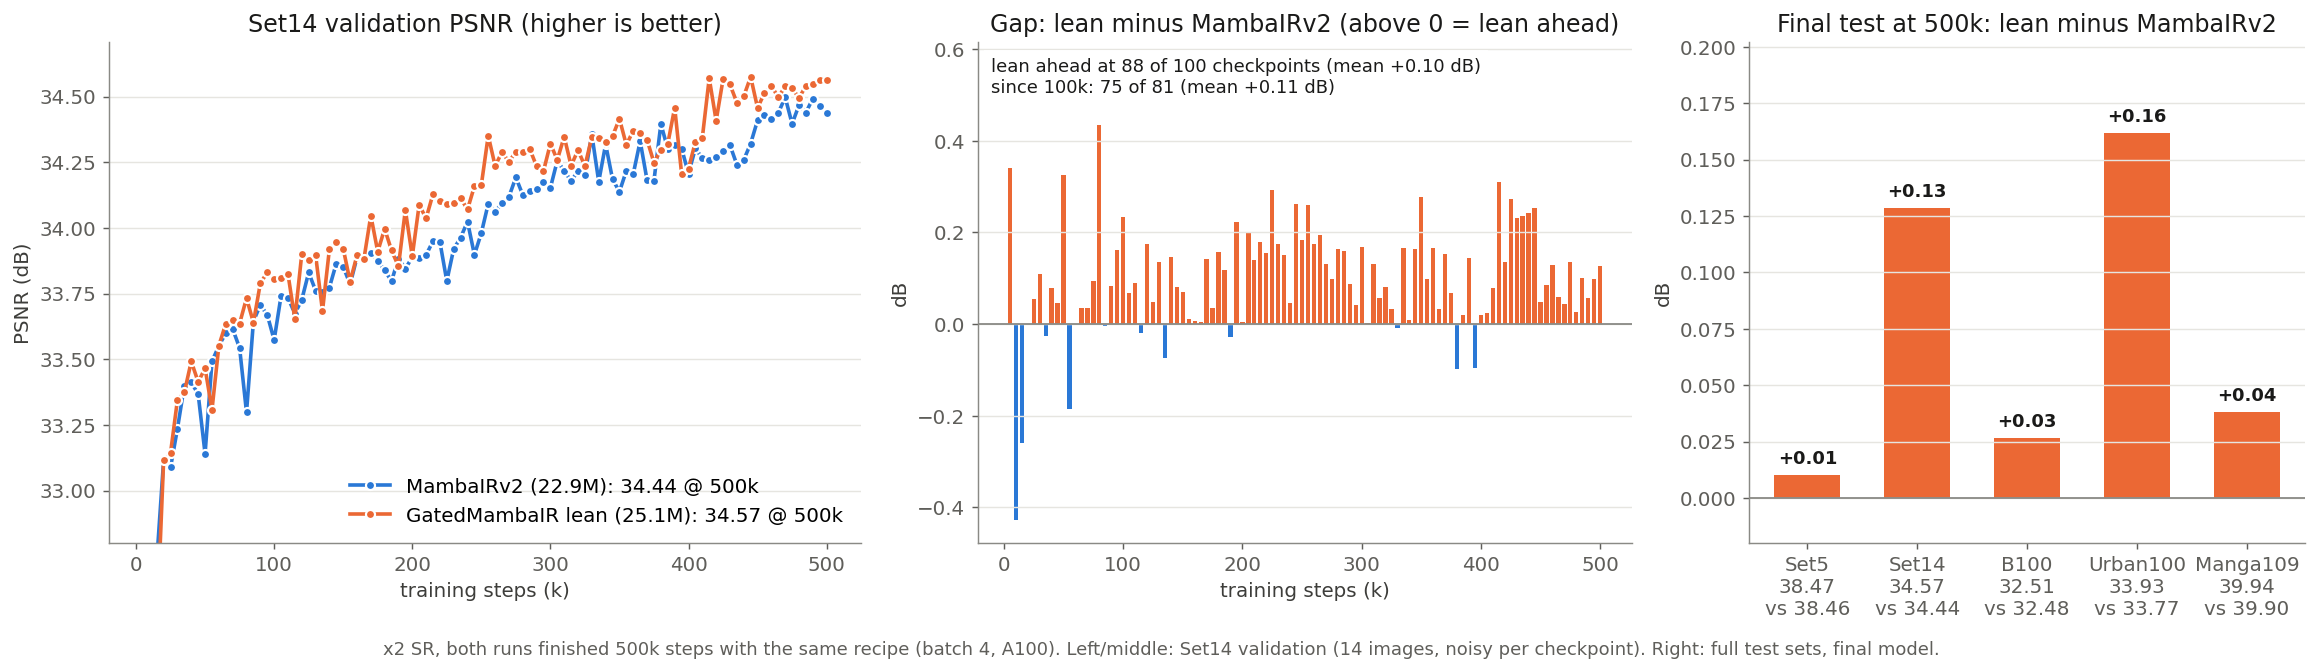
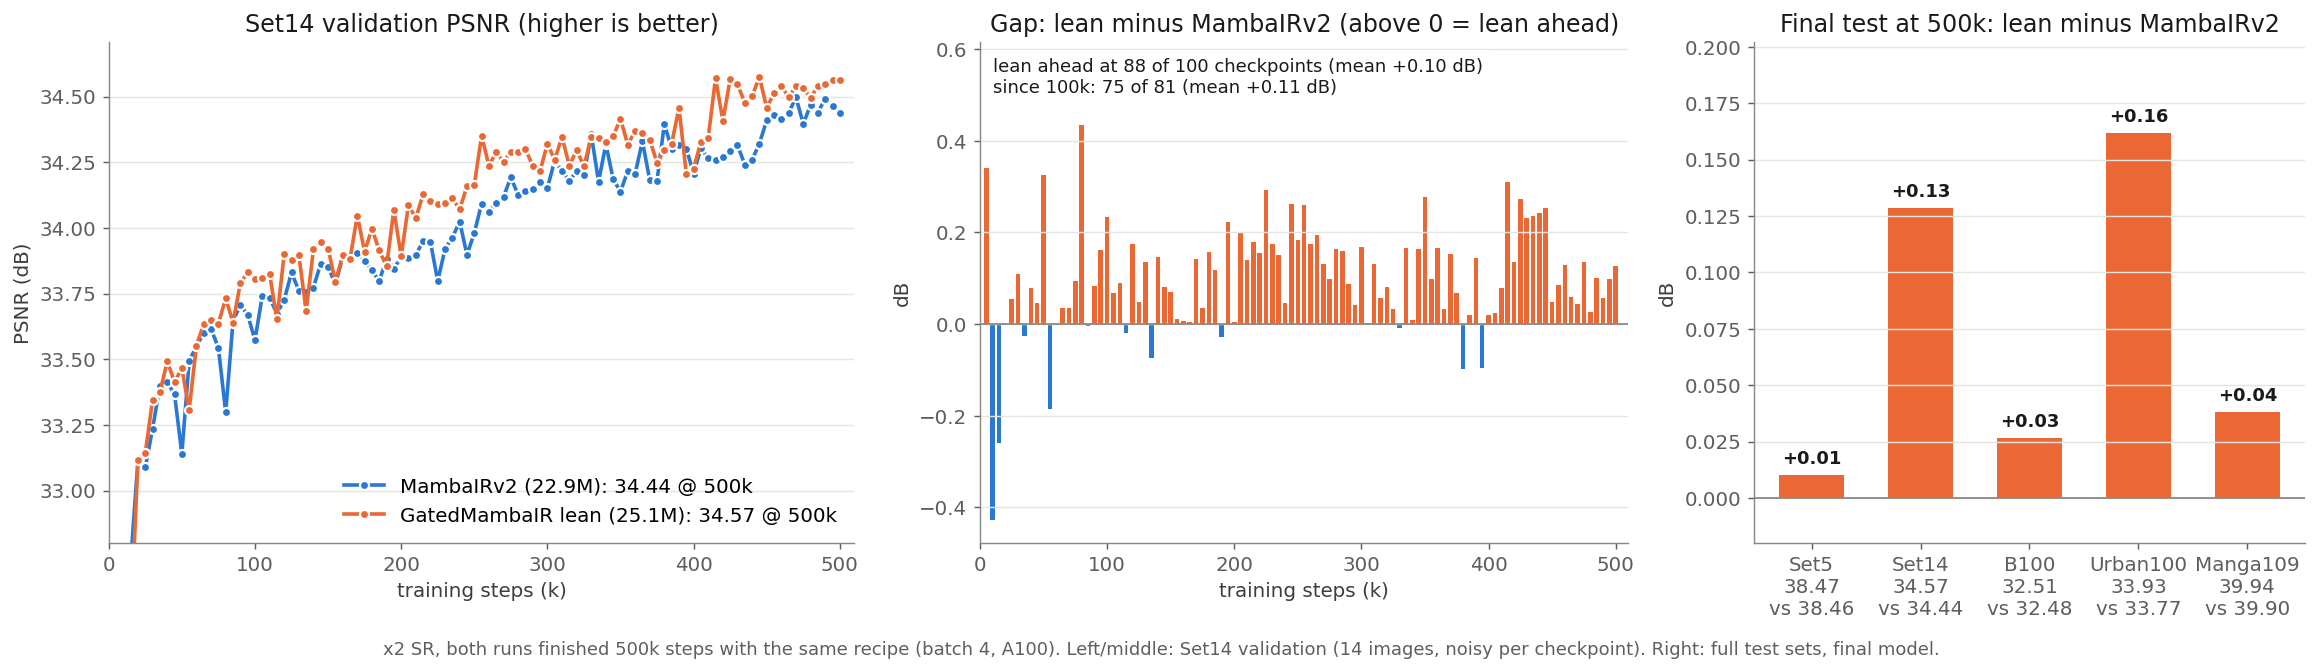
Add x3/x4 training-curve figures; generalize plot script to --scale 2|3|4

diff --git a/tests/plot_curves.py b/tests/plot_curves.py
@@ -1,0 +1,115 @@
+"""Plot Set14 validation PSNR of MambaIRv2 vs lean GatedMambaIR, their gap, and the final test gain on all 5 sets
+-> docs/500k_curves.png (x2), docs/x3_curves.png, docs/x4_curves.png
+
+    GMambaIR_env/bin/python tests/plot_curves.py --scale 2   # or 3, 4
+
+x3/x4 are 250k fine-tunes from the x2 500k weights. If a run has no test rows in docs/results.csv yet,
+the right panel says so; rerun once the tests finish.
+"""
+import argparse
+import csv
+
+import matplotlib
+import numpy as np
+
+matplotlib.use('Agg')
+import matplotlib.pyplot as plt  # noqa: E402
+from tensorboard.backend.event_processing.event_accumulator import EventAccumulator  # noqa: E402
+
+# scale -> (runs, total steps, output, footnote)
+CONFIGS = {
+    2: ([('MambaIRv2 (22.9M)', 'MambaIRv2_SR_x2_500k', '#2a78d6'),
+         ('GatedMambaIR lean (25.1M)', 'GatedMambaIR_SR_x2_lean_chgate_500k', '#eb6834')],
+        500000, 'docs/500k_curves.png',
+        'x2 SR, both runs finished 500k steps with the same recipe (batch 4, A100).'),
+    3: ([('MambaIRv2', 'MambaIRv2_SR_x3_ft250k', '#2a78d6'),
+         ('GatedMambaIR lean', 'GatedMambaIR_SR_x3_lean_chgate_ft250k', '#eb6834')],
+        250000, 'docs/x3_curves.png',
+        'x3 SR, both runs fine-tuned 250k steps from their x2 500k weights (paper schedule, lr 1e-4).'),
+    4: ([('MambaIRv2', 'MambaIRv2_SR_x4_ft250k', '#2a78d6'),
+         ('GatedMambaIR lean', 'GatedMambaIR_SR_x4_lean_chgate_ft250k', '#eb6834')],
+        250000, 'docs/x4_curves.png',
+        'x4 SR, both runs fine-tuned 250k steps from their x2 500k weights (paper schedule, lr 1e-4).'),
+}
+INK, MUTED, GRID = '#1a1a19', '#5f5e5a', '#e6e5e0'
+SETS = ['Set5', 'Set14', 'B100', 'Urban100', 'Manga109']
+
+parser = argparse.ArgumentParser()
+parser.add_argument('--scale', type=int, default=2, choices=sorted(CONFIGS))
+args = parser.parse_args()
+RUNS, TOTAL, OUT, NOTE = CONFIGS[args.scale]
+LATE = TOTAL // 5  # "since 100k" for x2, "since 50k" for the fine-tunes
+
+
+def psnr_curve(run):
+    ea = EventAccumulator(f'tb_logger/{run}', size_guidance={'scalars': 0})
+    ea.Reload()
+    # drop the extra end-of-training validation (step TOTAL+2), it repeats the last one
+    return {e.step: e.value for e in ea.Scalars('metrics/Set14/psnr') if e.step <= TOTAL}
+
+
+def final_psnr(run):
+    with open('docs/results.csv') as f:
+        return {r['dataset']: float(r['psnr']) for r in csv.DictReader(f) if r['name'] == f'test_{run}'}
+
+
+curves = {label: psnr_curve(run) for label, run, _ in RUNS}
+plt.rcParams.update({'font.size': 11, 'axes.spines.top': False, 'axes.spines.right': False,
+                     'axes.edgecolor': '#8a8a85', 'axes.labelcolor': '#3d3d3a',
+                     'xtick.color': MUTED, 'ytick.color': MUTED})
+fig, (ax, gx, tx) = plt.subplots(1, 3, figsize=(18, 5), facecolor='white',
+                                 gridspec_kw={'width_ratios': [1.15, 1, 0.85]})
+
+for label, _, color in RUNS:
+    steps = sorted(curves[label])
+    x, y = np.array(steps) / 1000, [curves[label][s] for s in steps]
+    ax.plot(x, y, color=color, lw=2, marker='o', ms=5, mec='white', mew=1.2,
+            label=f'{label}: {y[-1]:.2f} @ {x[-1]:.0f}k')
+# start the y axis just under the earliest checkpoints so the x2 warm-up does not squash the rest
+ylo = min(np.percentile(list(c.values()), 3) for c in curves.values()) - 0.05
+ax.set(title='Set14 validation PSNR (higher is better)', xlabel='training steps (k)', ylabel='PSNR (dB)',
+       ylim=(32.8 if args.scale == 2 else ylo, None), xlim=(0, TOTAL / 1000 * 1.02))
+ax.legend(frameon=False, loc='lower right')
+
+base, lean = curves[RUNS[0][0]], curves[RUNS[1][0]]
+common = sorted(set(base) & set(lean))
+gap = np.array([lean[s] - base[s] for s in common])
+gx.axhline(0, color='#8a8a85', lw=1)
+gx.bar(np.array(common) / 1000, gap, width=3.6, color=['#eb6834' if g >= 0 else '#2a78d6' for g in gap])
+gx.set(title='Gap: lean minus MambaIRv2 (above 0 = lean ahead)', xlabel='training steps (k)', ylabel='dB',
+       xlim=(0, TOTAL / 1000 * 1.02))
+ahead = int((gap > 0).sum())
+late = np.array(common) >= LATE
+gx.set_ylim(min(gap.min(), -0.1) - 0.05, gap.max() + 0.18)
+gx.text(0.02, 0.97, f'lean ahead at {ahead} of {len(gap)} checkpoints (mean {gap.mean():+.2f} dB)\n'
+        f'since {LATE // 1000}k: {int((gap[late] > 0).sum())} of {int(late.sum())} (mean {gap[late].mean():+.2f} dB)',
+        transform=gx.transAxes, va='top', color=INK, fontsize=10,
+        bbox=dict(facecolor='white', edgecolor='none', alpha=0.9))
+base_t, lean_t = (final_psnr(run) for _, run, _ in RUNS)
+if all(d in base_t and d in lean_t for d in SETS):
+    tgap = np.array([lean_t[d] - base_t[d] for d in SETS])
+    tx.axhline(0, color='#8a8a85', lw=1)
+    tx.bar([f'{d}\n{lean_t[d]:.2f}\nvs {base_t[d]:.2f}' for d in SETS], tgap, width=0.6,
+           color=['#eb6834' if g >= 0 else '#2a78d6' for g in tgap])
+    for i, d in enumerate(SETS):
+        tx.annotate(f'{tgap[i]:+.2f}', (i, tgap[i]), xytext=(0, 4 if tgap[i] >= 0 else -4),
+                    textcoords='offset points', ha='center', va='bottom' if tgap[i] >= 0 else 'top',
+                    color=INK, fontsize=10, weight='bold')
+    tx.set_ylim(min(tgap.min(), 0) - 0.02, tgap.max() + 0.04)
+    tests_done = True
+else:
+    tx.set_xticks(range(len(SETS)), SETS)
+    tx.set_yticks([])
+    tx.text(0.5, 0.5, 'final test pending\n(no lean rows in results.csv yet)', transform=tx.transAxes,
+            ha='center', va='center', color=MUTED, fontsize=12)
+    tests_done = False
+tx.set(title=f'Final test at {TOTAL // 1000}k: lean minus MambaIRv2', ylabel='dB')
+for a in (ax, gx, tx):
+    a.grid(axis='y', color=GRID, lw=0.8)
+    a.title.set_color(INK)
+fig.text(0.5, -0.02, f'{NOTE} Left/middle: Set14 validation (14 images, noisy per checkpoint). '
+         'Right: full test sets, final model.', ha='center', color=MUTED, fontsize=10)
+fig.tight_layout()
+fig.savefig(OUT, dpi=130, bbox_inches='tight')
+print(OUT, {label: (max(c.values()), max(c, key=c.get), len(c)) for label, c in curves.items()},
+      'gap points', len(gap), 'tests done', tests_done)

diff --git a/docs/STATUS.md b/docs/STATUS.md
@@ -264,6 +264,10 @@ Lean is ahead at 8 of 11 checkpoints (average +0.09 dB). Set14 is noisy, so the 
 - **×3 (1437521):** 231k / 250k, done ~Oct 27 07:00. Ahead of MambaIRv2 ×3 at **42 of 46** same-step validation checkpoints (mean **+0.04 dB**); best 30.79 vs 30.75.
 - **×4 (1437522):** 234k / 250k, done ~Oct 27 05:30. Ahead at **44 of 46** (mean **+0.05 dB**); best 29.00 vs 28.96.
 - The 7-day limit is Oct 28 23:39, so they will not be cut off. Tests 1437525 / 1437526 start automatically.
+- Curves (validation up to 235k; right panel fills in after the tests, rerun `tests/plot_curves.py --scale 3` / `--scale 4`): [x3_curves.png](x3_curves.png), [x4_curves.png](x4_curves.png).
+
+![x3 curves](x3_curves.png)
+![x4 curves](x4_curves.png)
 
 ## Running / queued now (2026-10-26)
 

diff --git a/docs/GatedMambaIR.md b/docs/GatedMambaIR.md
@@ -192,7 +192,7 @@ python basicsr/tools/import_test_log.py results/test_X/test_*.log --tag some-lab
 ```
 
 - **Keys:** experiments are keyed as `name@iter`; if a checkpoint is tested twice, the newest row wins.
-- **Curves:** training curves are in `tb_logger/`. `tests/plot_500k_curves.py` and `tests/plot_ablation_curves.py` turn them into the PNGs in this folder.
+- **Curves:** training curves are in `tb_logger/`. `tests/plot_curves.py --scale 2|3|4` and `tests/plot_ablation_curves.py` turn them into the PNGs in this folder.
 
 ## Next steps
 
